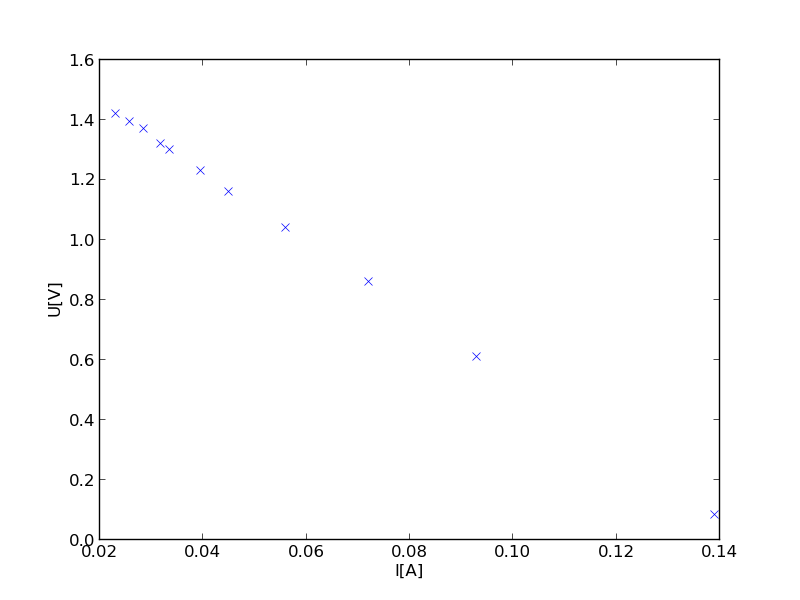
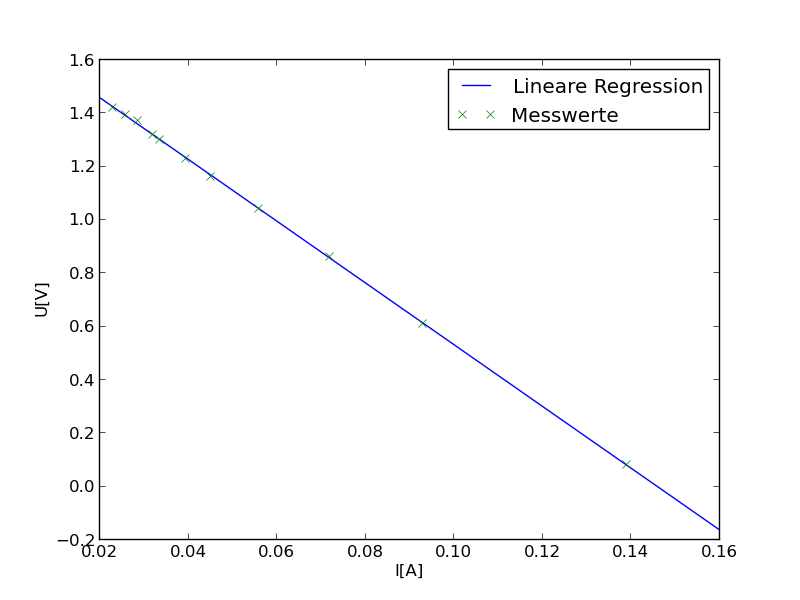
Bilder feritg

diff --git a/V301calculate.py b/V301calculate.py
@@ -23,6 +23,7 @@ def lin_reg(x,y):
 
 # Messwerte wie aufgenommen, U in Volt und I in mA:
 
+U_k= 1.68
 U2=array([1.42, 1.395, 1.37, 1.32, 1.30, 1.23, 1.16, 1.04, 0.86, 0.61, 0.082])
 vI2=array([23, 25.9, 28.5, 31.9, 33.5, 39.5, 45, 56, 72, 93, 139])
 U3=array([2.07, 2.09, 2.15, 2.19, 2.26, 2.35, 2.42, 2.58, 2.718, 2.91, 3.73])
@@ -34,26 +35,8 @@ vI5=array([0.230, 0.245, 0.2725, 0.296, 0.305, 0.361, 0.44, 0.57, 0.81, 1.13, 1.
 # Umwandlung von I in SI-Einheit.
 I2=vI2/1000.0
 I3=vI3/1000.0
-I4=vI3/1000.0
+I4=vI4/1000.0
 I5=vI5/1000.0
-
-plt.plot(I2,U2,'x')
-plt.xlabel('I[A]')
-plt.ylabel('U[V]')
-plt.savefig('Plot1.png')
-plt.close()
-
-plt.plot(I4,U4,'x')
-plt.xlabel('I[A]')
-plt.ylabel('U[V]')
-plt.savefig('Plot2.png')
-plt.close()
-
-plt.plot(I5,U5,'x')
-plt.xlabel('I[A]')
-plt.ylabel('U[V]')
-plt.savefig('Plot3.png')
-plt.close()
 
 print "Monozelle:"
 m,b = lin_reg(I2,U2)
@@ -61,6 +44,18 @@ print "-Innenwiederstand:"
 print m
 print "Leerlaufspannung:"
 print b
+Mono_Ri = - m
+Mono_U0 = b
+x = linspace(0.02,0.16)
+plt.plot(x, m.n*x+b.n, label = "Lineare Regression" )
+plt.plot(I2,U2,'x', label = "Messwerte")
+plt.xlabel('I[A]')
+plt.ylabel('U[V]')
+plt.xlim(0.02,0.16)
+plt.legend()
+plt.savefig('Plot1.png')
+plt.close()
+
 
 print "Rechteckausgang:"
 m,b = lin_reg(I4,U4)
@@ -69,9 +64,48 @@ print m
 print "Leerlaufspannung:"
 print b
 
+x = linspace(0,0.008)
+plt.ylim(0,0.5)
+plt.plot(x, m.n*x+b.n, label = "Lineare Regression" )
+plt.plot(I4,U4,'x', label = "Messwerte")
+plt.xlabel('I[A]')
+plt.ylabel('U[V]')
+plt.legend()
+plt.savefig('Plot2.png')
+plt.close()
+
 print "Sinusausgang:"
 m,b = lin_reg(I5,U5)
 print "-Innenwiederstand:"
 print m
 print "Leerlaufspannung:"
 print b
+
+x = linspace(0,0.002)
+plt.plot(x, m.n*x+b.n, label = "Lineare Regression" )
+plt.xlim(0,0.002)
+plt.plot(I5,U5,'x', label = 'Messwerte')
+plt.xlabel('I[A]')
+plt.ylabel('U[V]')
+plt.legend()
+plt.savefig('Plot3.png')
+
+print('Fehler der direkten Messung')
+print("U_0 = %s"% str(U_k *(1+ Mono_Ri/10e6)) )
+print('Delta_U = %s' % str(U_k*Mono_Ri/10e6))  
+plt.close()
+
+print('Leistung der Monozelle')
+P = U2*I2
+R_a = U2/I2
+
+plt.plot(R_a, P ,'x', label = 'Messwerte')
+R= linspace(0,100,100)
+P_th = Mono_U0.n**2 *R /(R+Mono_Ri.n)**2 
+plt.plot(R,P_th, '-' ,label = "Erwarteter Leistungsverlauf") 
+plt.xlabel(r"$R_a [\Omega]$")
+plt.ylabel(r"$N [W]$")
+plt.legend()
+plt.savefig('Plot4.png')
+plt.show()
+ 
